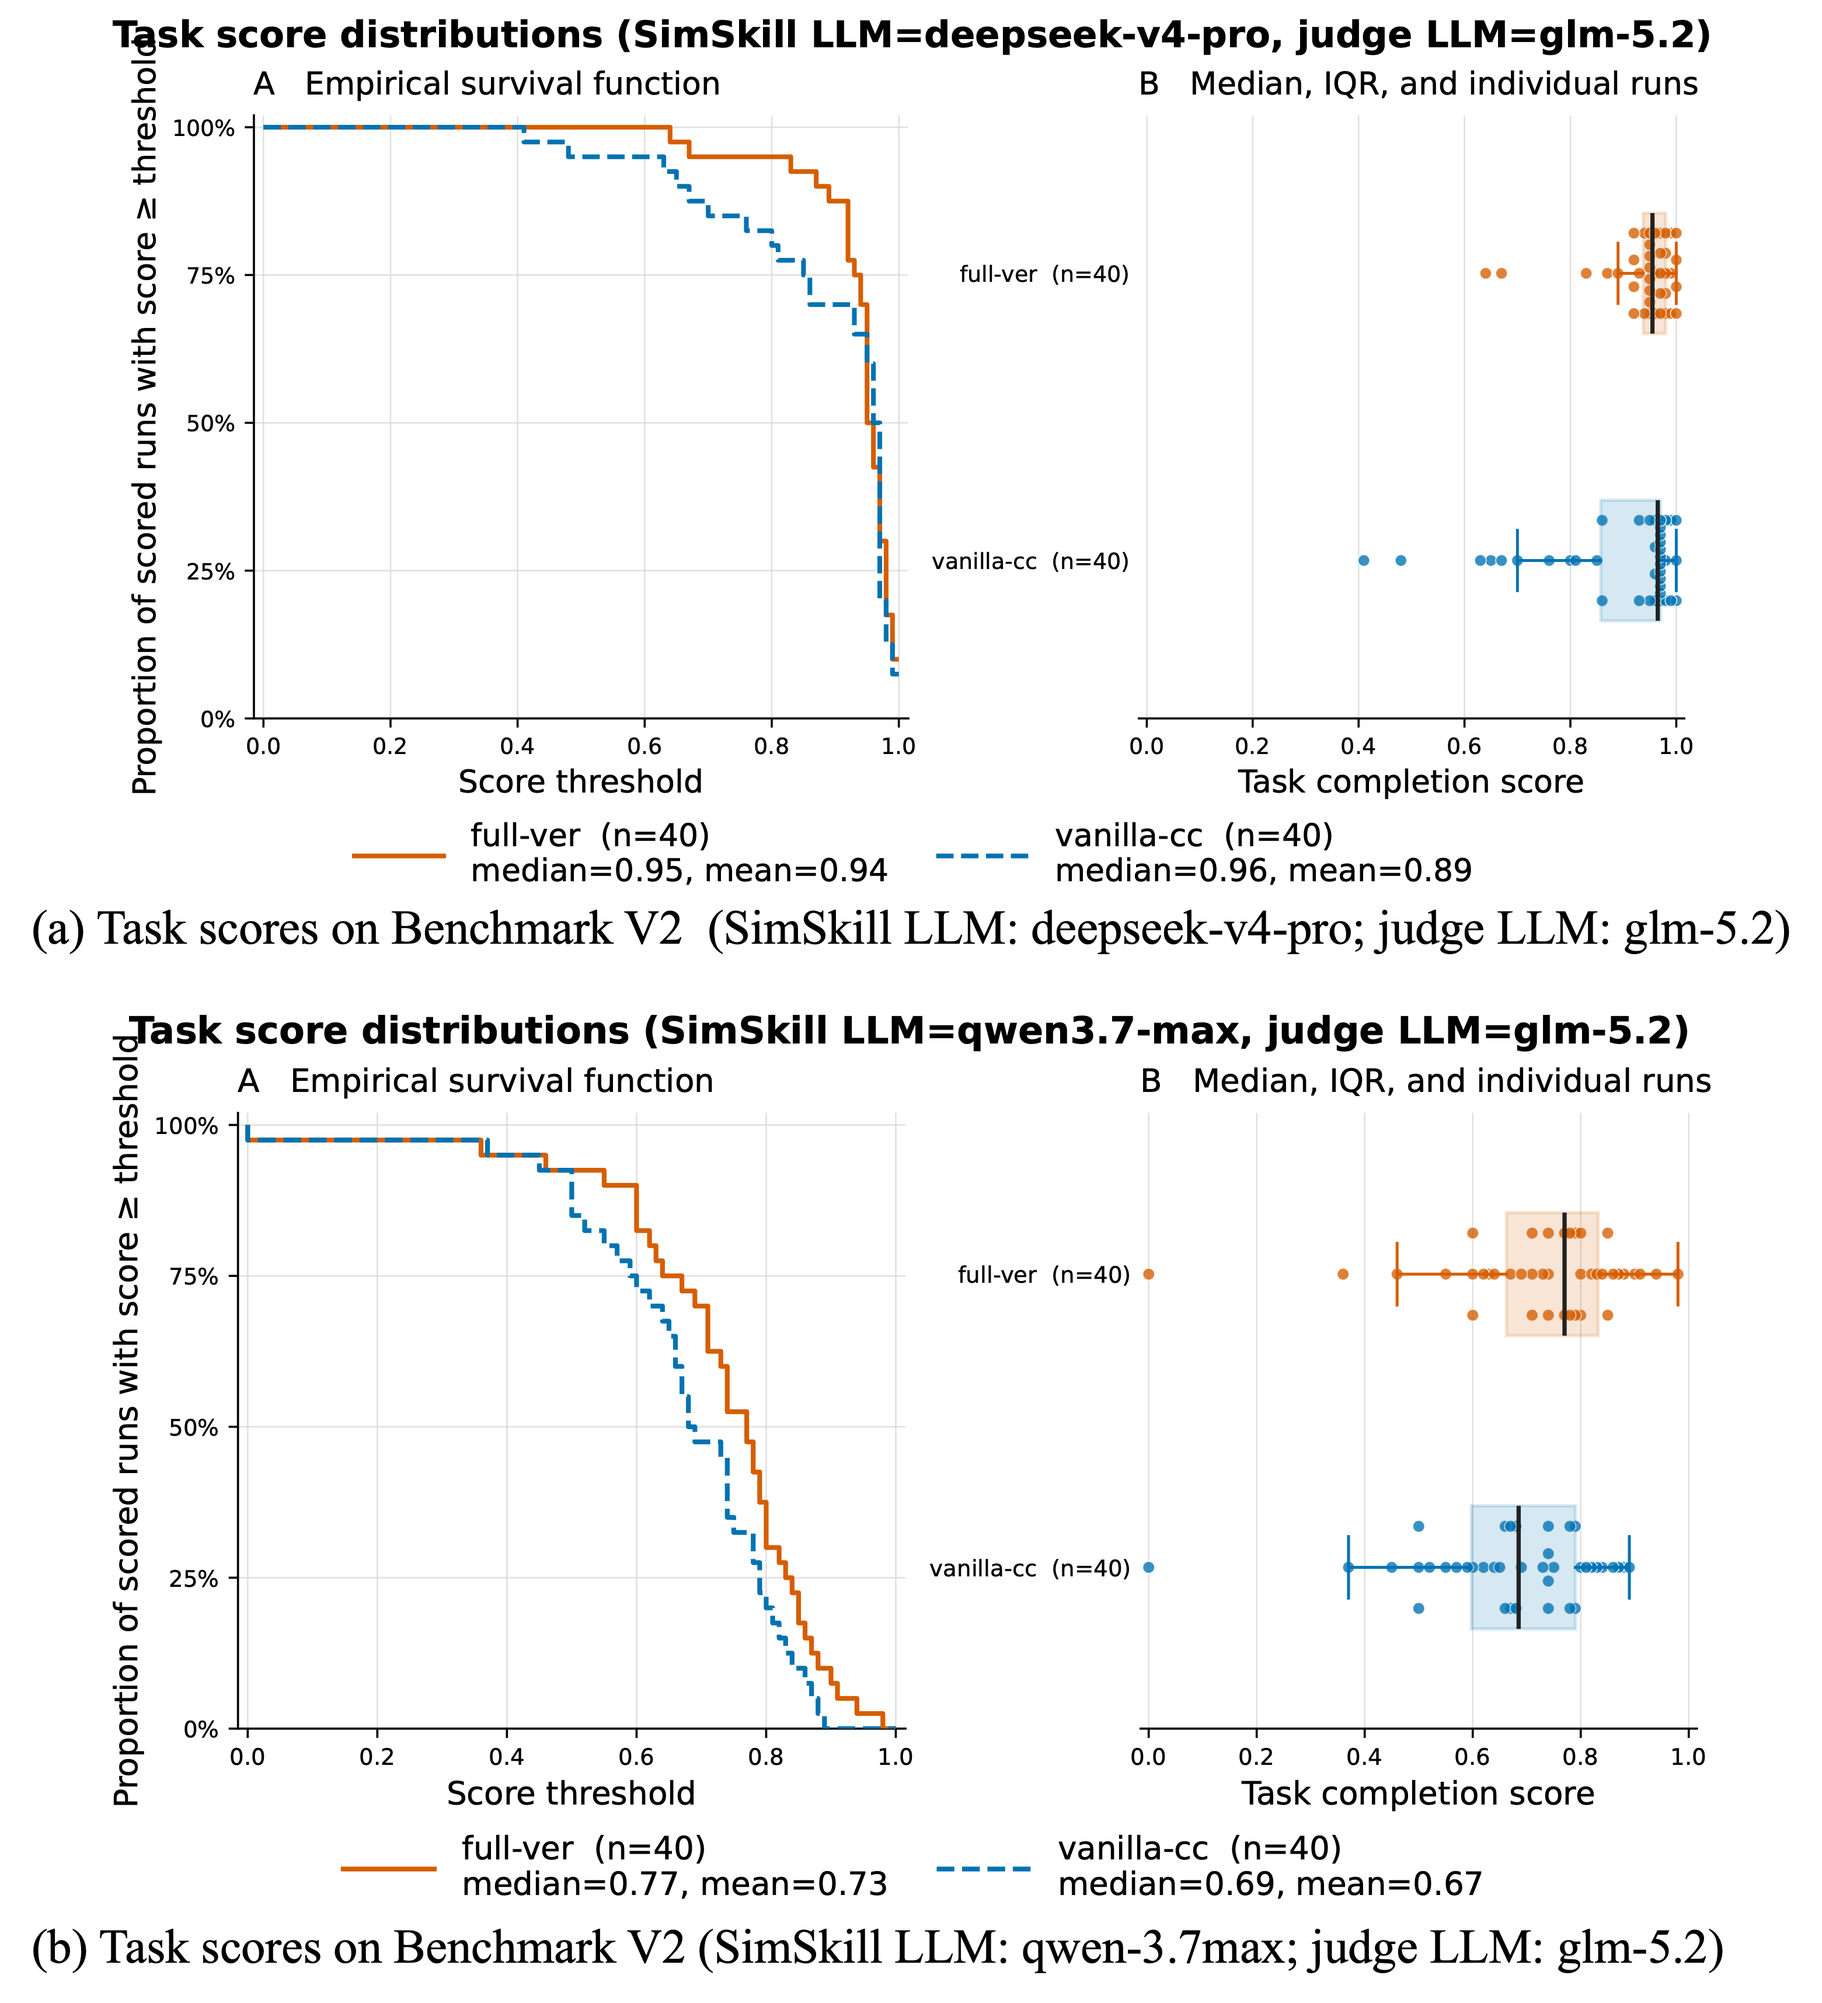
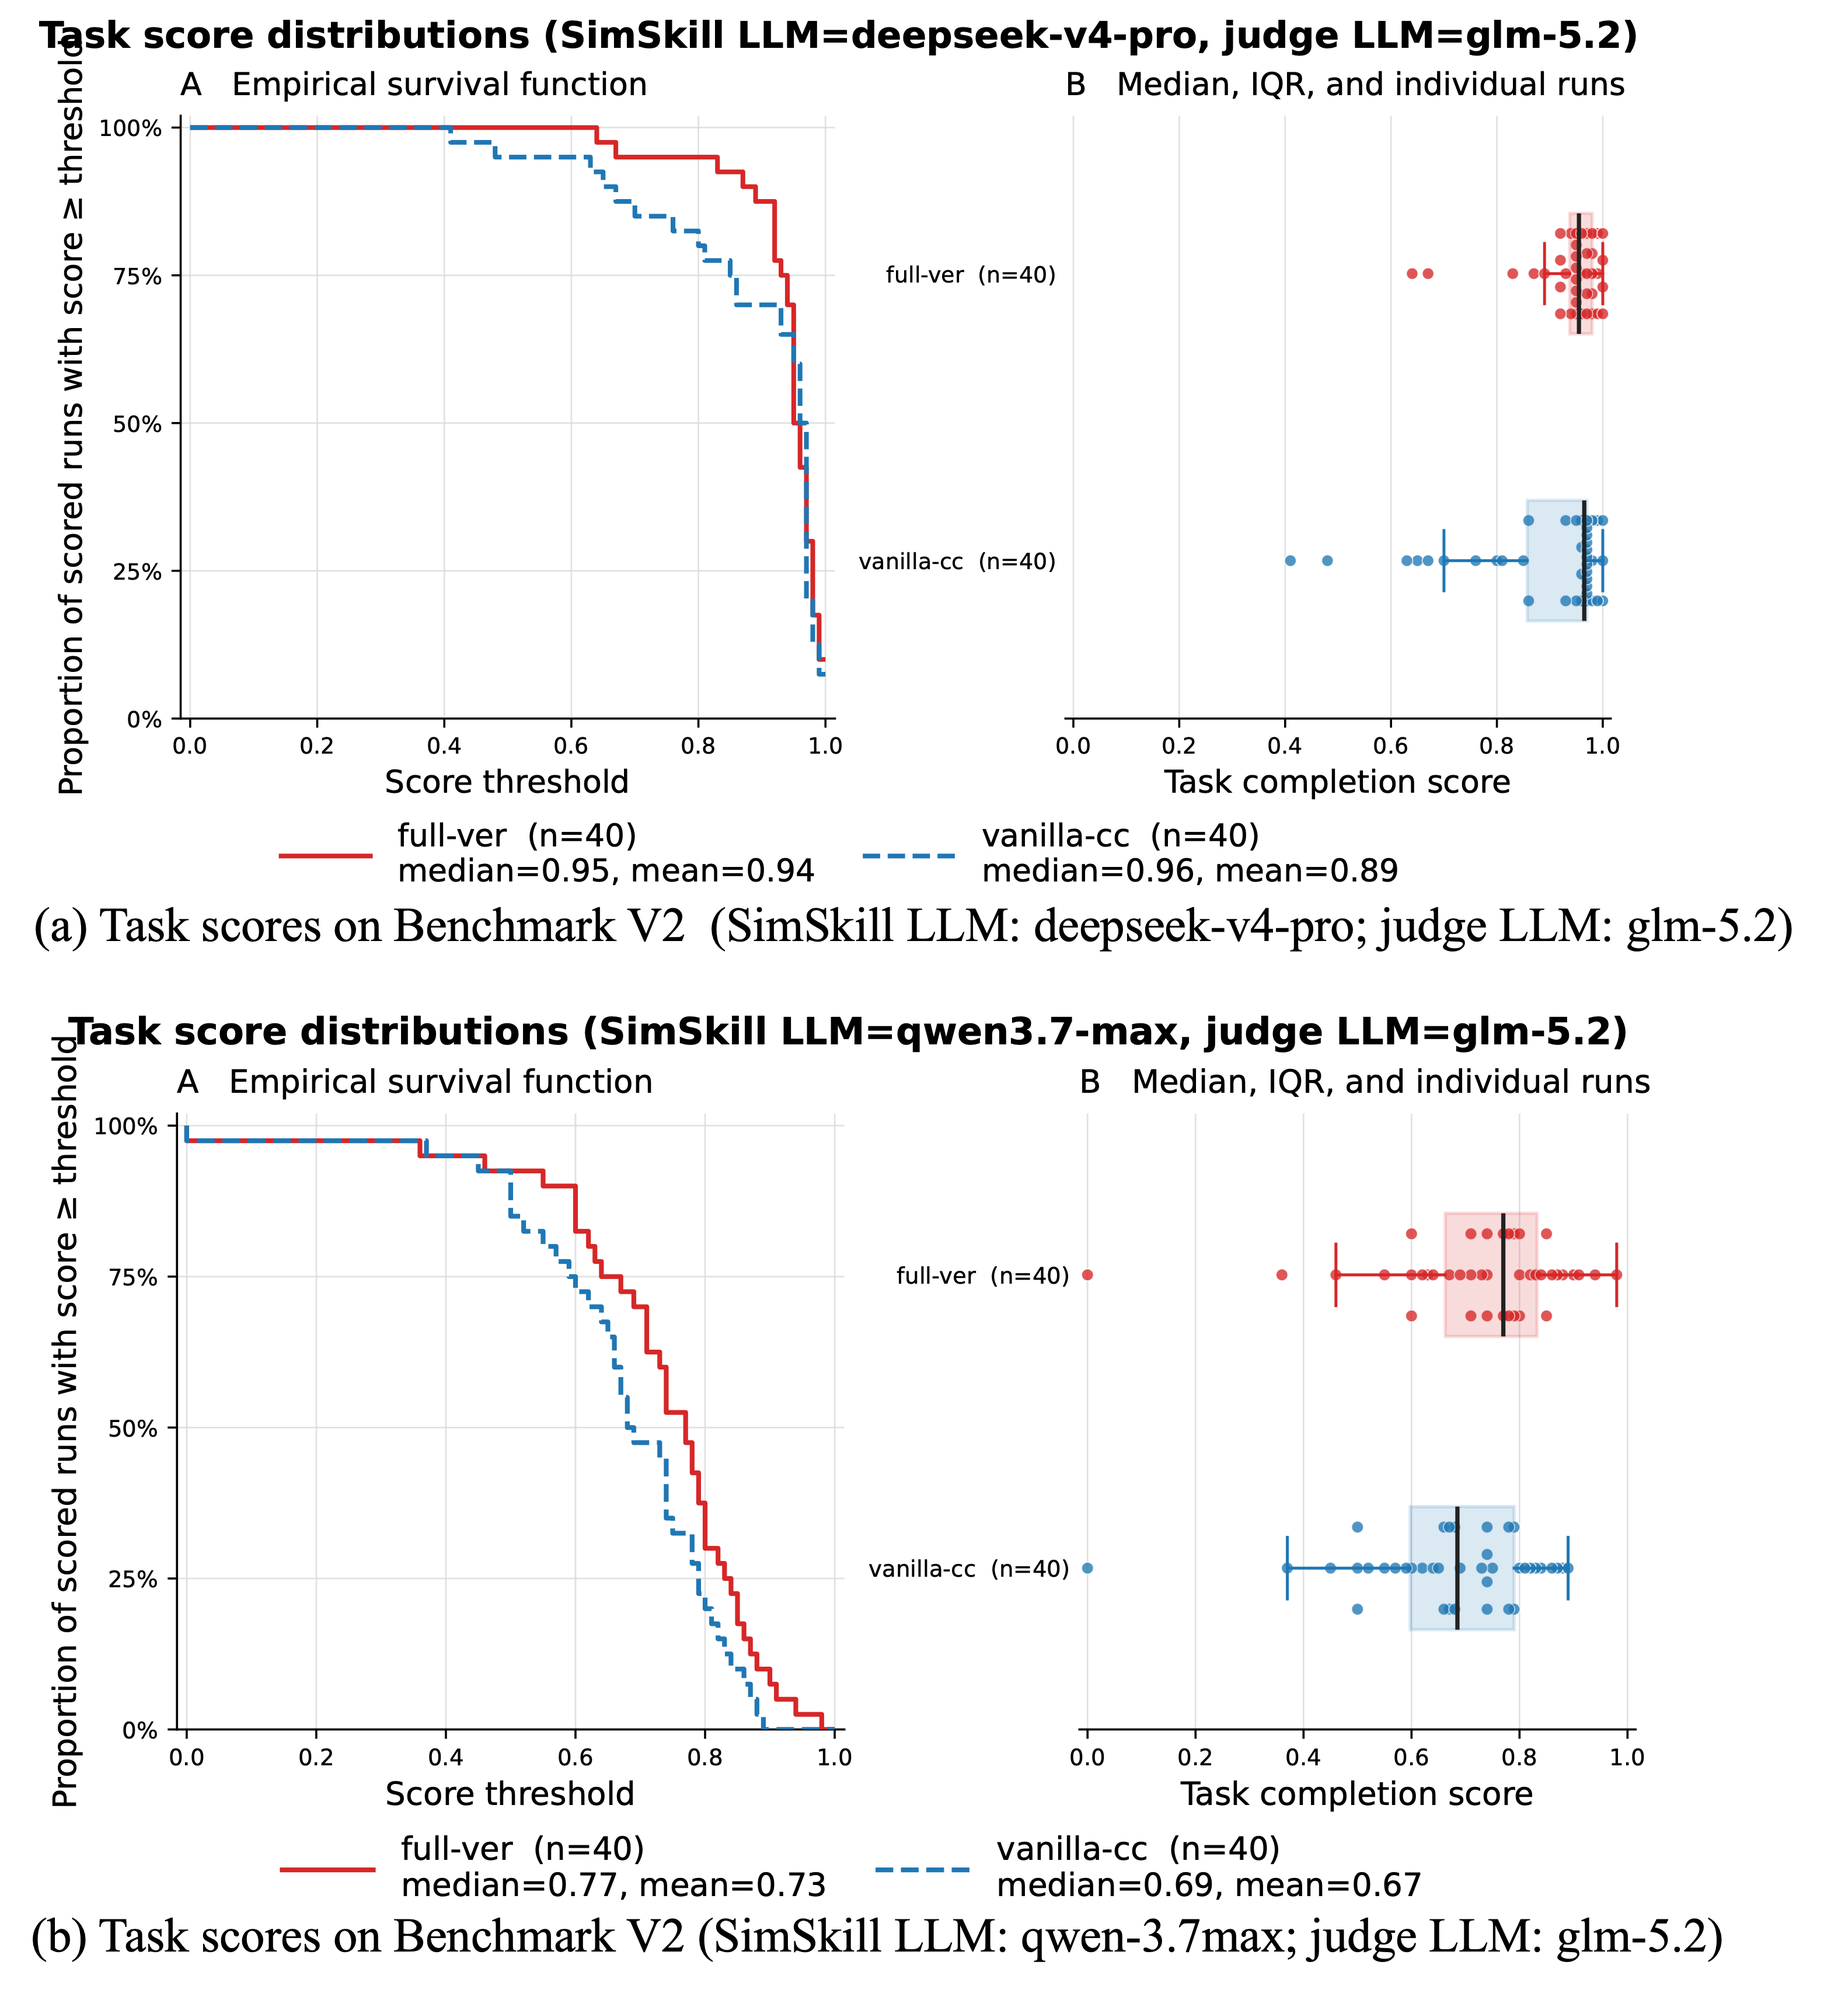
readme

diff --git a/README.md b/README.md
@@ -73,7 +73,7 @@ To check the status of your memory, you can run the following command in termina
 ```bash
 python utils/get_memory_statistics.py
 ```
-Example:
+Example output:
 ```
 === Procedural Skills ===
 ['analyze-intersection-air-quality-hot-spots-from-microsimulation', 'analyze-intersection-safety-with-ssm', 'analyze-simulation-outputs', 'analyze-traffic-noise-with-harmonoise', 'appraise-project-alternatives-with-benefit-cost-analysis', 'assign-traffic-with-marouter', 'audit-repair-and-persist-imported-network-defects', 'build-and-benchmark-freeway-incident-detection', 'build-and-evaluate-park-and-ride-corridor', 'build-and-evaluate-system-interchange', 'build-atspm-pipeline-and-retime-arterial', 'build-diamond-interchange-with-signal-offset-spillback', 'build-diverging-diamond-interchange', 'build-four-step-model-with-feedback-loop', 'build-gtfs-transit-scenario', 'build-macroscopic-fundamental-diagram', 'build-pedestrian-crossings-and-phasing', 'build-rail-corridor-with-railsignal', 'build-rail-road-grade-crossing', 'build-rolling-horizon-traffic-forecast-with-state-warm-start', 'calibrate-car-following-parameters-against-field-targets', 'calibrate-demand-with-routesampler', 'calibrate-desired-speed-and-evaluate-speed-enforcement', 'calibrate-flow-with-in-simulation-calibrator', 'calibrate-lane-changing-parameters-at-a-freeway-diverge', 'calibrate-motorist-yielding-and-select-midblock-crossing-treatment', 'characterize-pedestrian-flow-and-striping-model-artifacts', 'choose-time-discretization-and-integration-method', 'compare-left-turn-signal-treatments', 'compare-one-way-vs-two-way-street-grid-conversion', 'compare-unsignalized-intersection-control-types', 'compare-zipper-vs-default-merge-at-lane-drop', 'compute-dynamic-user-equilibrium', 'conduct-driveway-signal-warrant-traffic-impact-analysis', 'construct-and-verify-braess-paradox', 'control-one-lane-two-way-alternating-flow-through-a-work-zone', 'control-signals-with-actuated-tls', 'convert-od-matrix-to-trips', 'convert-trips-to-routes', 'create-grid-network', 'create-roundabout-network', 'create-single-intersection', 'create-spider-network', 'demonstrate-and-control-bus-bunching', 'demonstrate-and-stabilize-phantom-traffic-jams', 'design-actuated-signal-detector-placement-and-fault-tolerance', 'design-and-control-freeway-work-zone-lane-closures', 'design-arterial-signal-progression-and-verify-bandwidth', 'design-bus-stop-placement-type-and-spacing', 'design-count-station-locations-for-od-estimation', 'design-left-turn-storage-bay-length', 'design-multimodal-signal-progression-for-bicycles-and-cars', 'design-restricted-crossing-uturn-and-michigan-left-intersections', 'design-signal-change-and-clearance-intervals', 'design-transit-service-plan-under-a-bus-hour-budget', 'emulate-and-evaluate-partial-sensor-traffic-state-estimation', 'equilibrate-departure-time-choice-in-bottleneck-model', 'equilibrate-endogenous-mode-choice-with-transit-supply-feedback', 'estimate-od-matrix-with-odme', 'estimate-stochastic-freeway-capacity-and-breakdown-probability', 'evaluate-corridor-access-management-and-median-treatments', 'evaluate-integrated-corridor-management-with-factorial-interaction-design', 'evaluate-multimodal-accessibility-and-equity', 'evaluate-neighborhood-traffic-calming-and-cut-through-displacement', 'evaluate-protected-bicycle-intersection-design', 'evaluate-right-turn-on-red-and-leading-pedestrian-interval', 'evaluate-two-lane-highway-with-hcm-and-passing-lanes', 'extract-subnetwork-scenario-with-boundary-demand', 'form-platoons-with-simpla', 'generate-activity-based-demand', 'generate-demand-with-jtrrouter', 'generate-hcm-los-report-and-validate-against-microsimulation', 'generate-random-trips', 'get-vehicles-state', 'implement-alinea-ramp-metering', 'implement-coordinated-corridor-ramp-metering', 'implement-detector-free-cv-adaptive-signal-control', 'implement-dynamic-hard-shoulder-running', 'implement-eco-routing', 'implement-emergency-vehicle-preemption', 'implement-glosa-speed-advisory-controller', 'implement-maxpressure-traci-controller', 'implement-mfd-based-perimeter-gating', 'implement-nema-dual-ring-controller', 'implement-predictive-rolling-horizon-signal-control', 'implement-railroad-preemption-at-a-signalized-intersection', 'implement-reservation-based-autonomous-intersection-management', 'implement-scats-style-coordinated-adaptive-signal-control', 'implement-transit-signal-priority', 'implement-variable-speed-limits', 'load-osm-network', 'map-match-gps-traces-to-reconstruct-demand', 'measure-av-penetration-effect-on-bottleneck-capacity', 'measure-heavy-vehicle-passenger-car-equivalent', 'measure-roundabout-capacity-and-implement-metering', 'measure-saturation-flow-and-validate-webster-method', 'measure-travel-time-reliability-with-simulated-days', 'model-adverse-weather-effects-on-freeway-traffic', 'model-capacity-constrained-transit-passenger-loading', 'model-cordon-tolling-with-generalized-cost-surcharge', 'model-cruising-for-parking-search-externality', 'model-curbside-delivery-and-lane-blocking-externality', 'model-dedicated-bicycle-lane-infrastructure', 'model-demand-arrival-process-and-its-effect-on-capacity-and-delay', 'model-freeway-weaving-segment', 'model-grade-aware-heavy-vehicle-performance-and-climbing-lanes', 'model-horizontal-curvature-and-evaluate-design-consistency', 'model-intersection-sight-distance-restriction-at-a-twsc-junction', 'model-managed-lanes-with-dynamic-tolling-and-self-selection', 'model-opposite-direction-overtaking', 'model-parking-with-rerouting', 'model-road-gradient-effects-on-energy', 'model-toll-plaza-as-queueing-facility', 'model-urban-freight-delivery-tours', 'model-vclass-lane-permissions', 'operate-reversible-tidal-flow-lane', 'optimize-signal-plan-with-simulation-in-the-loop-ga', 'optimize-signals-by-qlearning', 'optimize-signals-by-tlscoordinator', 'optimize-signals-by-tlscycleadaptation', 'optimize-under-simulation-noise-with-a-fixed-budget', 'publish-georeferenced-and-animated-results', 'quantify-opendrive-roundtrip-fidelity', 'quantify-sumo-run-to-run-variability', 'reconstruct-demand-with-dfrouter', 'reconstruct-simulation-demand-from-field-turning-movement-counts', 'run-mesoscopic-simulation', 'run-simulation', 'scan-network-link-criticality-and-vulnerability', 'screen-and-decompose-sumo-parameter-sensitivity', 'screen-network-safety-with-spf-and-empirical-bayes', 'set-vehicle-state', 'simulate-emergency-evacuation', 'simulate-ev-charging', 'simulate-fleet-emissions', 'simulate-incident-rerouting', 'simulate-motorcycle-lane-filtering-with-sublane-model', 'simulate-multimodal-transit', 'simulate-street-running-tram-corridor', 'simulate-taxi-and-drt-dispatch', 'size-battery-electric-bus-fleet-and-chargers', 'solve-budget-constrained-network-design-problem', 'specify-route-choice-models-and-generate-route-sets', 'sweep-rerouting-device-market-penetration', 'switch-signal-plans-by-time-of-day-with-waut', 'synthesize-population-and-generate-disaggregate-demand', 'validate-congested-scenario-results-against-teleport-artifacts', 'validate-kinematic-wave-theory-across-car-following-models', 'visualize-network-congestion-heatmap', 'visualize-trajectories-and-timeseries']
